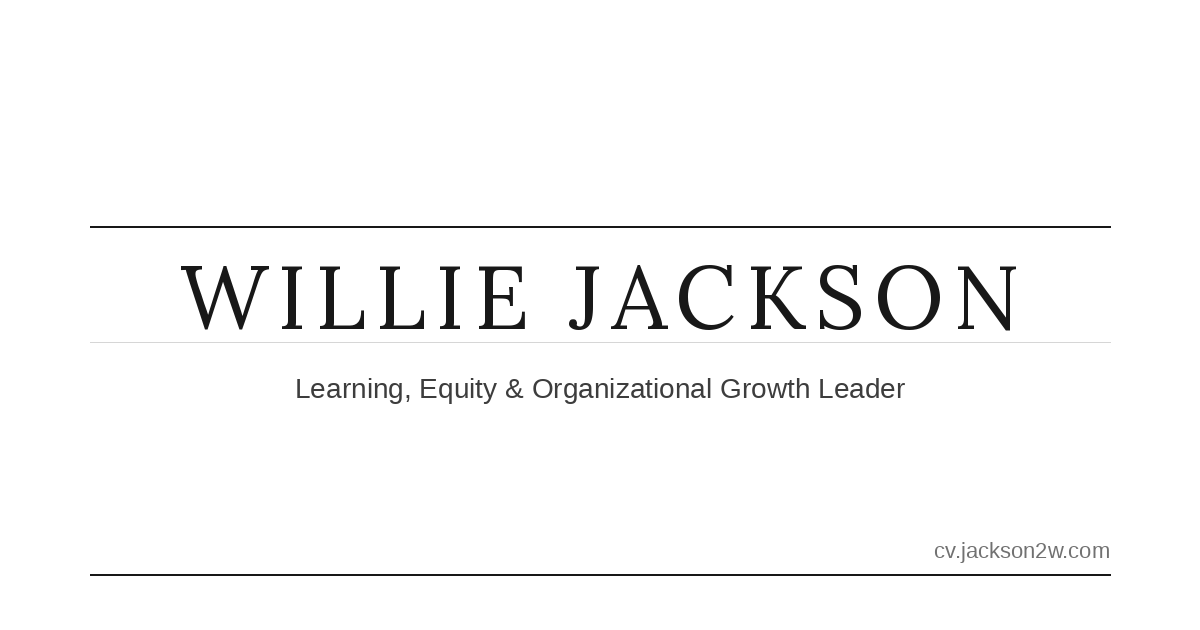
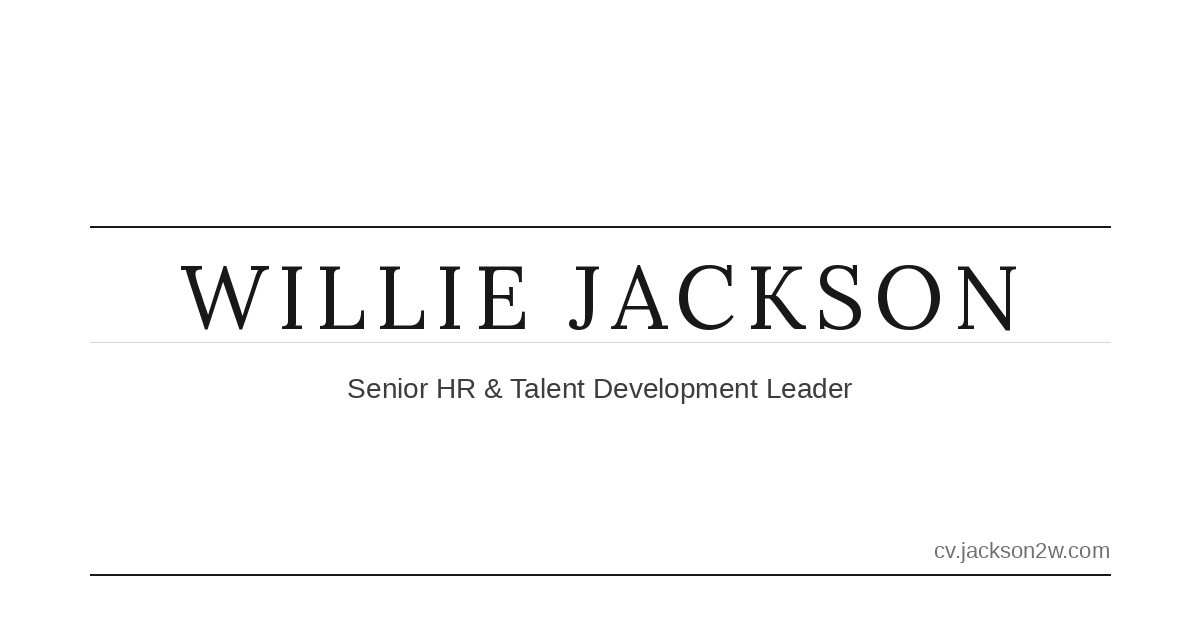
Update resume content from Mar 2026 version
- Headline: Senior HR & Talent Development Leader
- Summary: updated to 12+ years, AI upskilling focus
- Skills: add LLMs, swap DEI Advisory/Team Enablement for Leadership Dev/Change Mgmt
- Managing Principal: new org name, AI-focused bullets
- ReadySet: minor wording updates
- Abernathy: expanded bullet copy
- altMBA: over 7,000 / <12 months wording
- W3 Edge: add YoY
- Education: preserved as-is
- OG image: regenerated with new title

Changed region(s): [[0.2467, 0.6032, 0.7708, 0.6333]]

diff --git a/index.html b/index.html
@@ -3,26 +3,26 @@
 <head>
   <meta charset="UTF-8">
   <meta name="viewport" content="width=device-width, initial-scale=1.0">
-  <title>Willie Jackson — Learning, Equity &amp; Organizational Growth Leader</title>
-  <meta name="description" content="Willie Jackson is a Learning, Equity &amp; Organizational Growth Leader with 15+ years of experience in people development, leadership enablement, and organizational culture.">
+  <title>Willie Jackson — Senior HR &amp; Talent Development Leader</title>
+  <meta name="description" content="Willie Jackson is a Senior HR &amp; Talent Development Leader with 12+ years of experience designing enterprise strategies that accelerate AI upskilling, leadership readiness, and employee experience at scale.">
   <meta name="author" content="Willie Jackson">
 
   <!-- Open Graph -->
-  <meta property="og:title" content="Willie Jackson — L&amp;D Leader">
-  <meta property="og:description" content="15+ years driving people development, leadership enablement, and inclusive organizational culture across global teams.">
+  <meta property="og:title" content="Willie Jackson — Senior HR &amp; Talent Development Leader">
+  <meta property="og:description" content="12+ years designing enterprise strategies that accelerate AI upskilling, leadership readiness, and employee experience at scale.">
   <meta property="og:type" content="profile">
   <meta property="og:url" content="https://cv.jackson2w.com">
   <meta property="og:image" content="https://cv.jackson2w.com/og-image.png">
   <meta property="og:image:width" content="1200">
   <meta property="og:image:height" content="630">
-  <meta property="og:image:alt" content="Willie Jackson — Learning, Equity &amp; Organizational Growth Leader">
+  <meta property="og:image:alt" content="Willie Jackson — Senior HR &amp; Talent Development Leader">
 
   <!-- Twitter / X Card -->
   <meta name="twitter:card" content="summary_large_image">
-  <meta name="twitter:title" content="Willie Jackson — L&amp;D Leader">
-  <meta name="twitter:description" content="15+ years driving people development, leadership enablement, and inclusive organizational culture across global teams.">
+  <meta name="twitter:title" content="Willie Jackson — Senior HR &amp; Talent Development Leader">
+  <meta name="twitter:description" content="12+ years designing enterprise strategies that accelerate AI upskilling, leadership readiness, and employee experience at scale.">
   <meta name="twitter:image" content="https://cv.jackson2w.com/og-image.png">
-  <meta name="twitter:image:alt" content="Willie Jackson — Learning, Equity &amp; Organizational Growth Leader">
+  <meta name="twitter:image:alt" content="Willie Jackson — Senior HR &amp; Talent Development Leader">
 
   <!--
     Typography system based on Golden Ratio Typography (GRT) as used in
@@ -439,7 +439,7 @@
     ====================================================== -->
     <header class="site-header">
       <h1 class="site-header__name">Willie Jackson</h1>
-      <p class="site-header__headline">Learning, Equity &amp; Organizational Growth Leader</p>
+      <p class="site-header__headline">Senior HR &amp; Talent Development Leader</p>
       <address class="site-header__contact">
         <a href="mailto:willie@williejackson.com">willie@williejackson.com</a>
         <span class="contact-sep" aria-hidden="true">·</span>
@@ -460,8 +460,7 @@
       <section class="resume-section" aria-labelledby="heading-summary">
         <h2 class="resume-section__heading" id="heading-summary">Career Summary</h2>
         <div class="summary__body">
-          <p>Learning, Equity &amp; Organizational Growth Leader with 15+ years of experience driving people development, leadership enablement, and organizational culture initiatives across global teams, building inclusive learning systems that harmonize development, belonging, and performance.</p>
-          <p>Core competencies include learning strategy design, inclusive leadership development, global organizational culture design, and expert facilitation.</p>
+          <p>Senior HR &amp; Talent Development leader with 12+ years of experience designing and delivering enterprise strategies that accelerate AI upskilling, leadership readiness, and improve employee experience at scale. Core competencies include leadership development, performance management, talent development, employee engagement, learning strategy design, and expert facilitation.</p>
         </div>
       </section>
 
@@ -471,7 +470,7 @@
         <dl class="skills__list">
           <div class="skills__item">
             <dt style="display:inline"><strong>Software &amp; Tools:</strong></dt>
-            <dd style="display:inline"> Learning Management Systems (LMS) · Notion · Asana · Trello · Google Workspace · Miro · MS Office</dd>
+            <dd style="display:inline"> Learning Management Systems (LMS) · LLMs (Copilot, Claude, ChatGPT) · Google Workspace · MS Office</dd>
           </div>
           <div class="skills__item">
             <dt style="display:inline"><strong>Learning &amp; Development:</strong></dt>
@@ -479,7 +478,7 @@
           </div>
           <div class="skills__item">
             <dt style="display:inline"><strong>Organizational Transformation:</strong></dt>
-            <dd style="display:inline"> Culture &amp; Belonging Strategy · DEI Integration &amp; Advisory · Survey Implementation · Team Enablement</dd>
+            <dd style="display:inline"> Culture &amp; Belonging Strategy · Leadership Development · Survey Implementation · Change Management</dd>
           </div>
         </dl>
       </section>
@@ -495,11 +494,11 @@
               <h3 class="role__title" id="role-managing-principal">Managing Principal</h3>
               <time class="role__dates" datetime="2015-01">January 2015 – Present</time>
             </header>
-            <p class="role__org">Independent Consultant · Dallas, TX</p>
+            <p class="role__org">Independent Talent Development &amp; AI Enablement Consultant · Dallas, TX</p>
             <ul class="role__bullets">
-              <li>Partners with executives and HR leaders to design learning strategies that embed equity, inclusion, and psychological safety into leadership frameworks and organizational culture, enhancing global performance and internal accountability.</li>
-              <li>Collaborates with senior partners to identify performance gaps and develop leadership programs focused on inclusive communication, cross-cultural collaboration, and manager enablement to strengthen belonging and engagement across global teams.</li>
-              <li>Designs and scales inclusive leadership development programs for 50+ clients across diverse business sectors, training 450+ managers in anti-discrimination practices and equitable decision-making — resulting in a 35% improvement in team inclusion scores.</li>
+              <li>Partners with executives and Human Resource (HR) leaders to design AI enhanced, high-impact learning strategies that drive AI adoption, increase employee engagement, bolster global performance, enhance organizational culture, and improve productivity.</li>
+              <li>Collaborates with senior partners to identify performance gaps to develop and facilitate data-driven leadership programs focused on effective communication, cross-cultural collaboration, and manager enablement to strengthen engagement across global teams.</li>
+              <li>Designs and scales leadership development programs for 50+ clients across a variety of business sectors, training 450+ managers in team effectiveness, manager communication, and talent capability, resulting in 35% improvement in team inclusion scores.</li>
             </ul>
           </article>
 
@@ -512,8 +511,8 @@
             <p class="role__org">ReadySet · Oakland, CA (Remote)</p>
             <ul class="role__bullets">
               <li>Led global operations as a strategic talent business partner to design and scale inclusive leadership programs for 200+ global clients, integrating DEIB principles into manager enablement, learning architecture, facilitation, and performance systems.</li>
-              <li>Examined learning and performance pain points to design and manage complex cross-functional systems connecting learning, belonging, accountability, and impact — increasing program adoption by 30% and participant satisfaction by 40%.</li>
-              <li>Partnered with senior stakeholders across HR, Communications, and People Ops to operationalize learning strategies that advanced equity, strengthened engagement, and improved leadership capability across distributed teams.</li>
+              <li>Examined learning and performance pain points to better design and manage complex cross-functional systems focused on connecting learning, belonging, accountability, and impact, resulted in increasing program adoption by 30% and participant satisfaction by 40%.</li>
+              <li>Partnered with senior stakeholders across Human Resources (HR), Communications, and People Ops to operationalize learning strategies that advanced equity, strengthened engagement, and improved leadership capability across distributed teams.</li>
             </ul>
           </article>
 
@@ -526,8 +525,8 @@
             <p class="role__org">Abernathy Magazine · Harlem, NYC</p>
             <ul class="role__bullets">
               <li>Launched and scaled a media platform dedicated to amplifying stories of Black leadership, identity, and belonging — publishing 400+ original pieces and producing community events that advanced representation in media for senior executives nationally.</li>
-              <li>Secured corporate sponsorships and strategic partnerships surpassing $200K+ in total partnership value, aligning brand storytelling with social impact, equity, and professional growth narratives across industries.</li>
-              <li>Directed editorial, contributor, and event strategy to elevate visibility for emerging voices globally, fostering a culture of mentorship, authenticity, and shared learning to enhance individual and collective growth.</li>
+              <li>Secured corporate sponsorships and strategic partnerships with leading organizations and brands surpassing $200K+ in total partnership value that aligned brand storytelling with social impact, equity, and professional growth narratives across industries.</li>
+              <li>Directed editorial, contributor, and event strategy to elevate visibility for emerging voices across the globe — many of whom advanced to national outlets — while fostering a culture of mentorship, authenticity, and shared learning to enhance individual and collective growth.</li>
             </ul>
           </article>
 
@@ -539,9 +538,9 @@
             </header>
             <p class="role__org">Seth Godin's altMBA · Hastings-on-Hudson, NY</p>
             <ul class="role__bullets">
-              <li>Built the digital learning infrastructure for a global leadership development program that has transformed 7,000+ professionals across 100+ countries, enabling real-time collaboration and peer-to-peer learning — positioning the brand as a leading L&amp;D hub.</li>
-              <li>Partnered with program leadership, vendors, and global stakeholders to design and refine the collective curriculum, strengthen facilitation models end-to-end, and enhance accessibility and inclusivity for diverse cohorts.</li>
-              <li>Applied data and feedback analysis to improve participant outcomes, expand alumni engagement, and establish scalable systems for continuous learning and community growth — surpassing program expectations by +30% within 12 months.</li>
+              <li>Built the digital learning infrastructure for a global leadership development program that has transformed over 7,000 professionals across 100+ countries, enabling real-time collaboration and peer-to-peer learning, positioning the brand as a leading L&amp;D hub.</li>
+              <li>Partnered with program leadership, vendors, and global stakeholders to design and refine the collective program curriculum, strengthen facilitation models from end to end, and enhance the accessibility and inclusivity of the learning experience for diverse cohorts.</li>
+              <li>Applied data and feedback analysis to improve participant outcomes, expand alumni engagement, and establish scalable systems for continuous learning and community growth; resulted in surpassing program expectations and operations by +30% within &lt;12 months.</li>
             </ul>
           </article>
 
@@ -553,8 +552,8 @@
             </header>
             <p class="role__org">W3 EDGE · Boston, MA</p>
             <ul class="role__bullets">
-              <li>Led professional services and client success operations for a global web optimization platform used by 1M+ websites, overseeing process improvement and technical learning initiatives that streamlined internal and external business operations.</li>
-              <li>Designed and implemented onboarding and knowledge systems that improved client enablement, reduced resolution times year over year, and strengthened cross-functional collaboration across engineering and product teams for 24+ continuous months.</li>
+              <li>Led professional services and client success operations for a global web optimization platform used by over one million websites, overseeing process improvement and technical learning initiatives that streamlined internal and external business operations.</li>
+              <li>Designed and implemented onboarding and knowledge systems that improved client enablement, reduced resolution times year over year (YoY), and strengthened cross-functional collaboration across engineering and product teams for 24+ continuous months.</li>
             </ul>
           </article>
 
